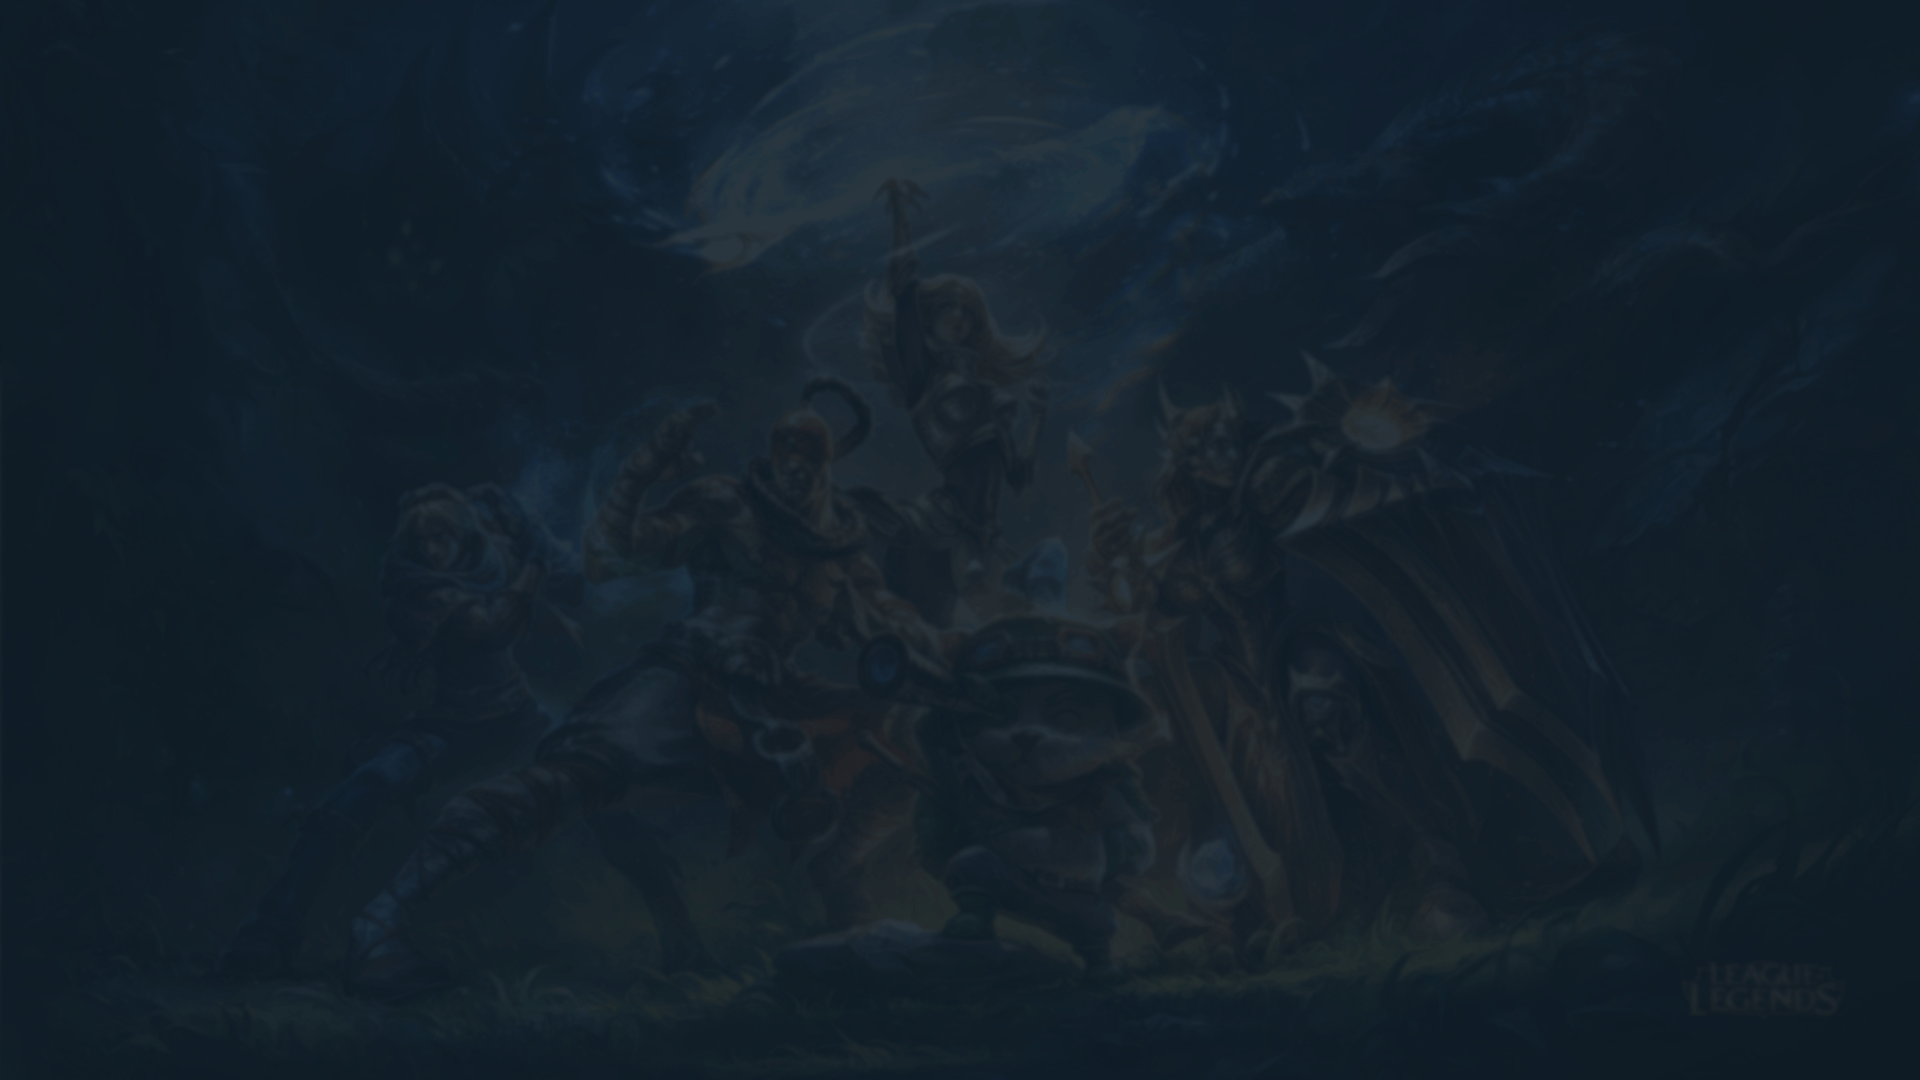
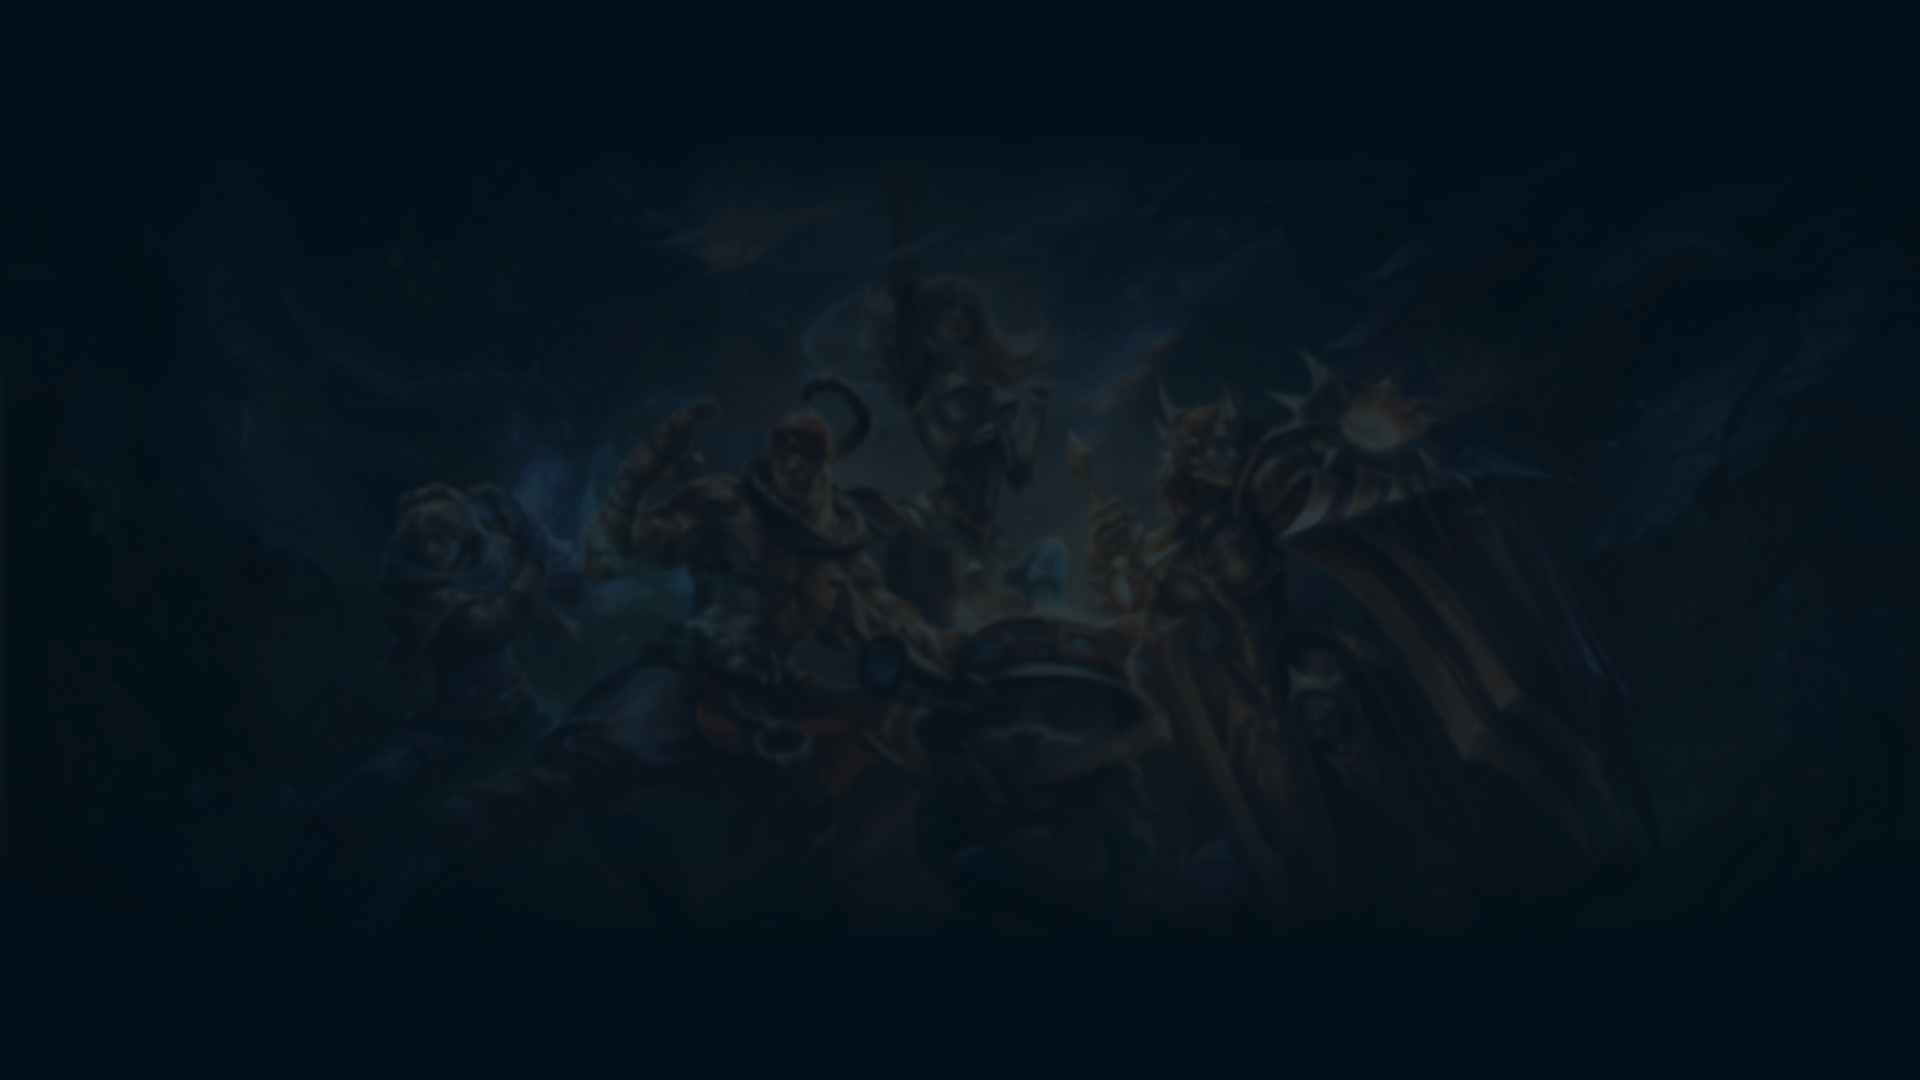
modified bg

diff --git a/css/style.css b/css/style.css
@@ -70,7 +70,7 @@ a:hover {
     color: white;
 }
 #registration-container {
-    background-image: url("../img/bg-register1.png");
+    background-image: url("../img/bg-register.png");
     margin: none;
     width: 100%;
     height: auto;
